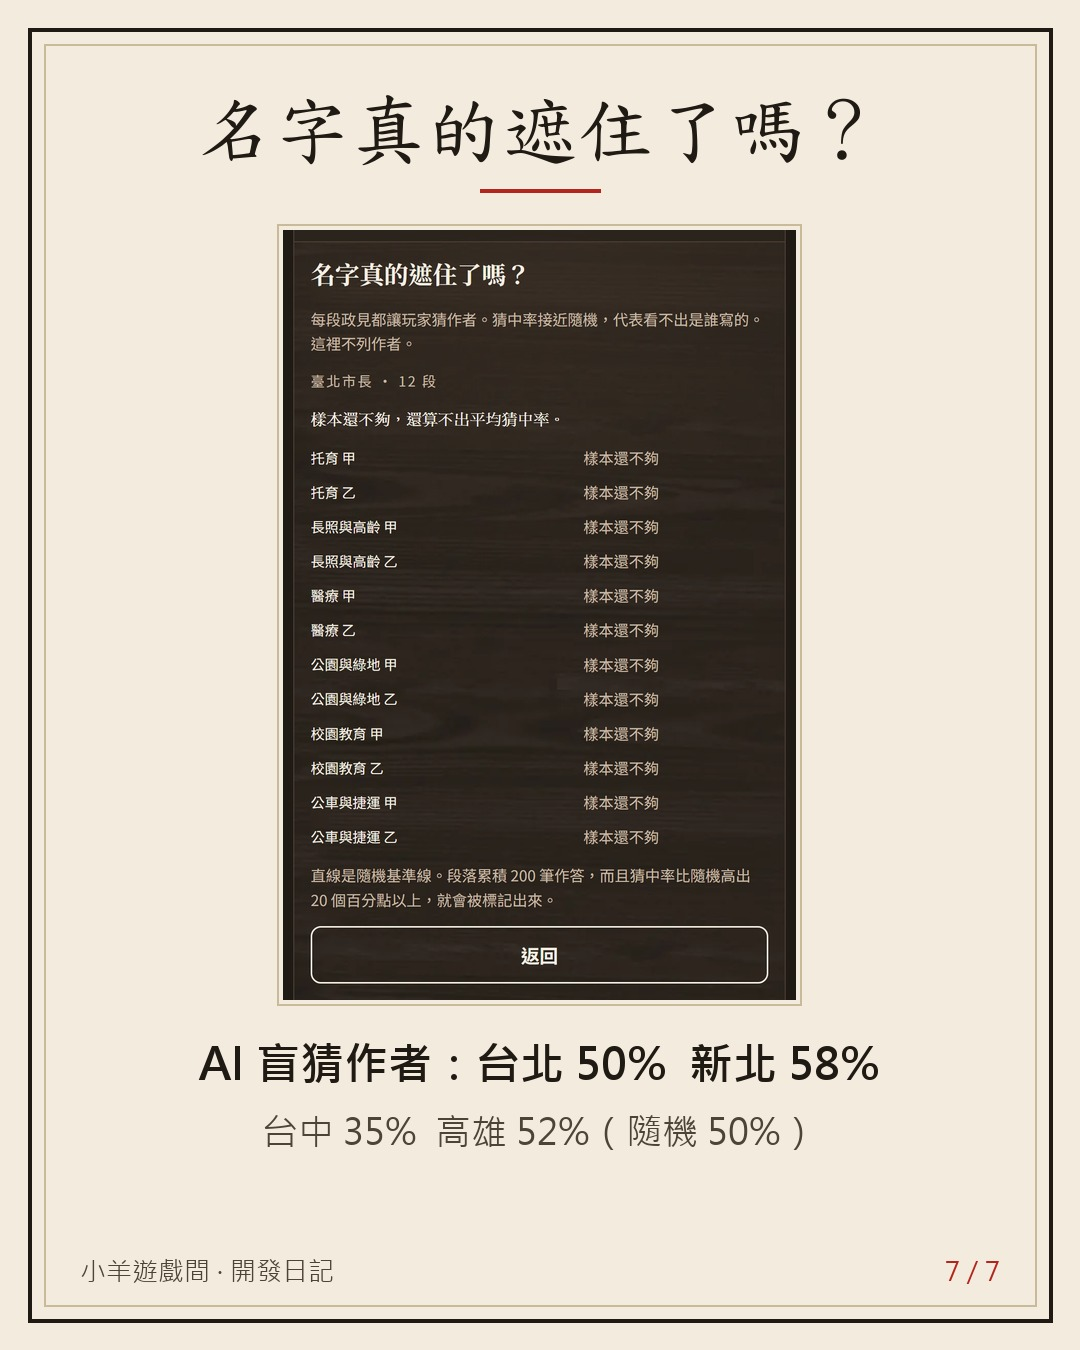
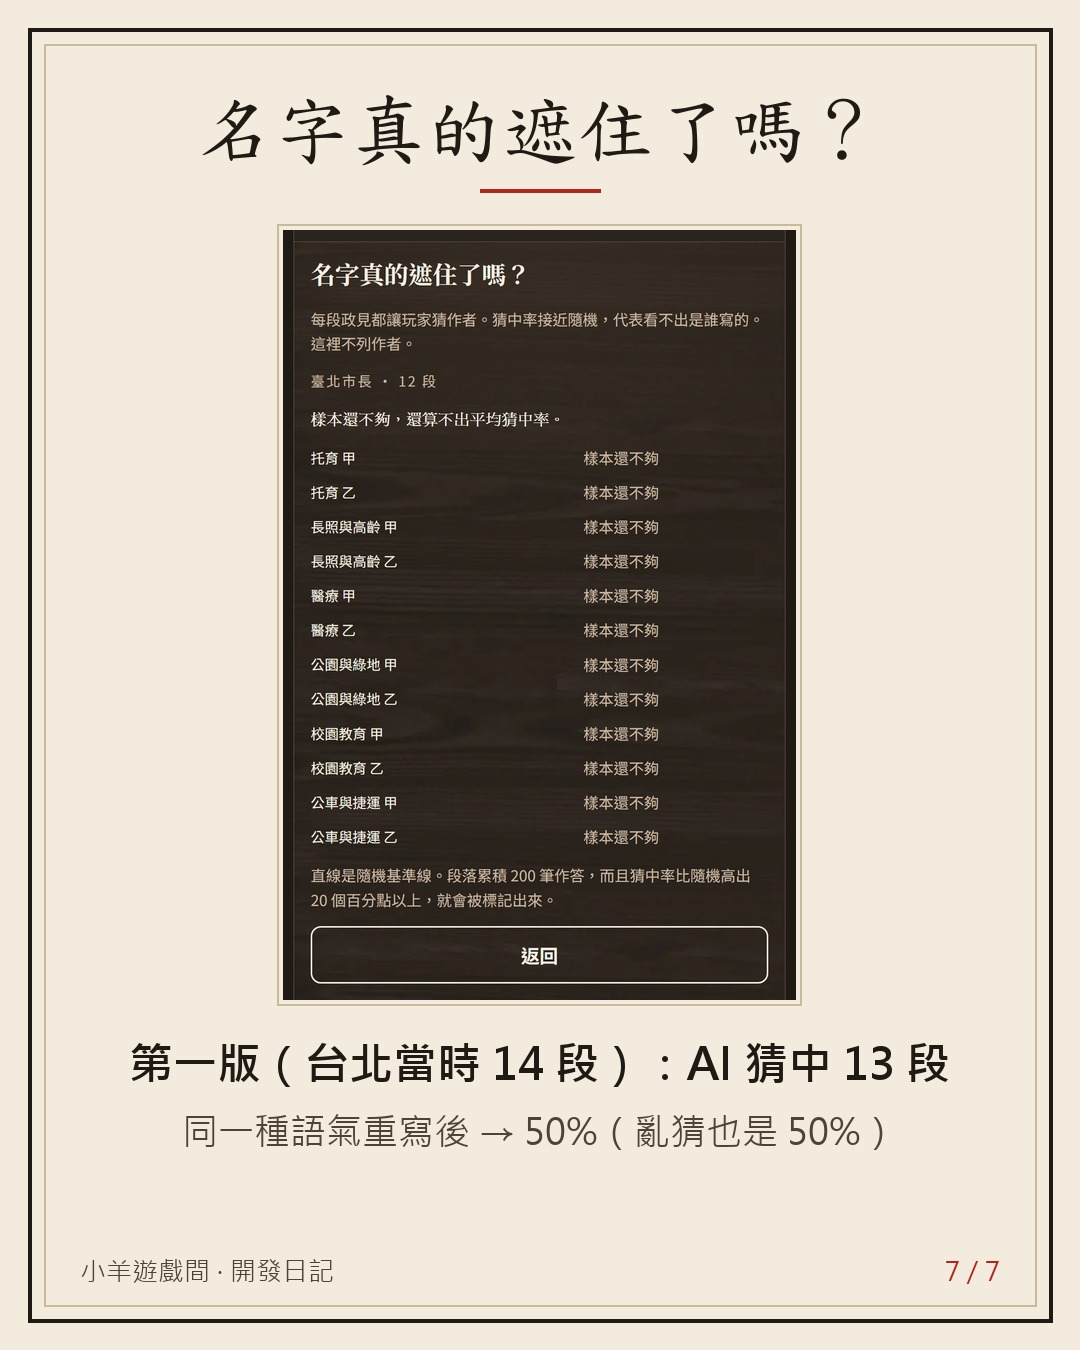
vault backup: 2026-10-25 06:40:04

Changed region(s): [[0.1222, 0.7467, 0.8861, 0.8711]]

diff --git a/Projects/auto promotion/posts/5.md b/Projects/auto promotion/posts/5.md
@@ -3,19 +3,19 @@ id: 5
 type: devnote
 game: covervote
 topic: "蓋牌投票箱：把候選人名字蓋起來之後的三個洩漏（段落編號單雙號交替、空 build 也綠的 guard、Cloudflare 自動注入分析腳本）＋ 60 段四人查核、AI 盲猜率"
-status: 草稿
+status: 待發
 created: 2026-10-25 21:50
-score:
+score: 8.1
 ---
 # 把候選人名字蓋起來之後，第一個洩漏答案的是題目編號
 
 ## Threads
 ### 1
-名字蓋起來了，答案還是漏了——漏在題目編號 orz
+名字全蓋住了，看題目編號就知道是誰寫的。
 
 我做了一個把市長候選人名字蓋起來的小遊戲。
 結果單號是甲寫的，雙號是乙寫的。
-打開網頁原始碼就看得出來。
+送到瀏覽器的資料裡就看得出來——還好是上線前抓到的。
 
 這篇記一下，做「看不出是誰」，洞都藏在哪裡。
 ![[5/01.jpg]]
@@ -23,9 +23,9 @@ score:
 遊戲很簡單：
 名字蓋住，每段政見你打 -2 到 +2 分，想猜就猜是誰寫的。
 開票時看：你傾向的人，和政見最契合的人，是不是同一個。
-（你的傾向只存在自己手機，不上傳）
+（你的傾向只存在自己的瀏覽器，不上傳）
 
-台北、新北、台中、高雄可以玩，共 60 段；桃園、台南等 11/12 公報。
+台北、新北、台中、高雄可以玩，共 60 段；桃園、台南等 11/12 選舉公報出來再補。
 ![[5/02.jpg]]
 ### 3
 回到編號。
@@ -34,7 +34,7 @@ score:
 資料照「甲一段、乙一段」整理，id 又是流水號，
 就變成單號甲、雙號乙。
 
-是負責整理高雄資料的那個 AI 自己回報的。
+上線前，負責整理高雄資料的那個 AI 自己回報的。
 改成亂數碼、順序打亂，
 再加一道自動檢查：id 長得像流水號，測試就亮紅燈。
 ![[5/03.jpg]]
@@ -42,9 +42,9 @@ score:
 第二個洞在檢查本身。
 
 我寫了一條測試：「送到前端的資料裡，找不到候選人名字」。
-它綠了。很開心。
+第一版寫好，它綠了，差點就這樣收工。
 
-後來發現，build 壞掉、一個檔都沒產生的時候，它也是綠的。
+回頭再看才發現，build 壞掉、一個檔都沒產生的時候，它也是綠的。
 0 個檔案裡，當然找不到名字 XD
 
 補一句「至少要有東西可查」，
@@ -53,9 +53,11 @@ score:
 ### 5
 第三個洞是我自己挖的，只是我不知道 orz
 
-我的程式沒放任何分析腳本，
-但我的 Cloudflare 帳號開了流量分析，它會自動在線上網頁塞一支腳本。
-做政治題目，我不想多收玩家任何東西。
+我自己只放了 GA，而且只記流程：開頁、選縣市、開始、開票、分享。
+傾向、分數、猜誰，都不送給 GA；隱私頁也能按「不要統計我」關掉 GA。
+遊戲自己的後端只收匿名總數（每段被猜幾次、猜中幾次），給健康度頁用。
+但 Cloudflare 帳號開了流量分析，會再自動塞一支我沒寫的腳本。
+做政治題目，沒說好的東西，我一樣都不想多收。
 
 加一行設定（no-transform，意思是「請不要改我的網頁」）擋掉，
 前後實測：網頁裡的那支腳本 1 → 0。
@@ -63,73 +65,75 @@ score:
 ### 6
 最大的洞，在文字本身。
 
-第一版改寫，請 AI 讀者盲猜：台北 14 段猜中 13 段。
+第一版改寫，請 AI 讀者盲猜：台北當時 14 段，猜中 13 段。
 名字蓋了，語氣沒蓋——一邊像市府新聞稿，一邊像挑戰者的提案。
 整批退回，規定兩邊用同一種語氣重寫。
 
-重寫後再盲猜：台北 50%，兩人對決亂猜也是 50%。
-另外請四位獨立查核員對過原文，改寫有 2 段意思跑掉、15 段小偏差，全修。
+重寫後再盲猜：台北 50%。目前每都先收兩位候選人，亂猜也是 50%。
+另外分四路獨立查核原文，改寫有 2 段意思跑掉、15 段小偏差，全修。
 ![[5/07.jpg]]
 ### 7
 小小的心得：
-我原本只擔心名字。
-結果編號、測試、平台設定、語氣，每一個都會說出「是誰」。
+我原本只擔心名字，結果編號、測試、平台設定、語氣，每一個都會說出「是誰」。
+要測「看不出是誰」，不要只檢查名字——
+找一個沒看過答案的人（或 AI）盲猜，猜中率接近亂猜才算數。
 
-你覺得名字蓋起來之後，還有什麼會讓你一眼認出是誰寫的？
-你也來猜猜看，猜得比 AI 準嗎？
+你覺得名字蓋起來之後，什麼最容易讓你認出是誰？語氣、數字，還是某個口頭禪？
 
 下一篇：11/18 起，遊戲會自己把候選人相關的統計收起來。為什麼要這樣做？
 有錯請指正 :p
 ### 連結
-名字蓋起來，你會投給誰？👉 https://games.csiesheep.com/covervote/
+名字蓋起來，你猜得比 AI 準嗎？👉 https://games.csiesheep.com/covervote/
 
 ## Instagram
-名字蓋起來了，答案還是漏了——漏在題目編號 orz
+名字全蓋住了，看題目編號就知道是誰寫的。
 
 我做了一個把市長候選人名字蓋起來的小遊戲。
-結果單號是甲寫的、雙號是乙寫的。
+結果單號是甲寫的、雙號是乙寫的（還好上線前抓到）。
 
 做「看不出是誰」，洞藏在四個地方：
 1. 題目編號
 2. 檢查程式自己（0 個檔案也綠燈）
 3. 我自己帳號自動塞進網頁的分析腳本
-4. 語氣：第一版改寫，AI 讀者在台北 14 段猜中 13 段
+4. 語氣：第一版改寫，AI 讀者在台北當時 14 段猜中 13 段
 
-全部修完，台北盲猜降到 50%（亂猜也是 50%）。
+全部修完，台北盲猜降到 50%（目前每都兩位候選人，亂猜也是 50%）。
 
-你覺得名字蓋起來後，還有什麼會洩漏是誰寫的？留言跟我說～
+你覺得名字蓋起來後，什麼最容易讓你認出是誰？語氣、數字，還是口頭禪？留言跟我說～
 連結在主頁
 
 #蓋牌投票箱 #開發日記 #獨立遊戲 #網頁遊戲 #小羊遊戲間
 卡片：![[5/01.jpg]] ![[5/02.jpg]] ![[5/03.jpg]] ![[5/04.jpg]] ![[5/05.jpg]] ![[5/06.jpg]] ![[5/07.jpg]]
 
 ## Facebook
-【開發日記】名字蓋起來了，答案還是漏了——漏在題目編號
+【開發日記】名字蓋起來了，答案還是漏了——漏在題目編號（還好上線前抓到）
 
-我做了一個小遊戲「蓋牌投票箱」：市長候選人的政見把名字蓋住，你給每段打 -2 到 +2 分，也可以猜是誰寫的；開票時看看「你傾向的人」和「你最契合的人」是不是同一個。你的傾向只存在自己的手機，不上傳。
+我做了一個小遊戲「蓋牌投票箱」：市長候選人的政見把名字蓋住，你給每段打 -2 到 +2 分，也可以猜是誰寫的；開票時看看「你傾向的人」和「你最契合的人」是不是同一個。你的傾向只存在自己的瀏覽器，不上傳。
 
 現在台北、新北、台中、高雄可以玩，一共 60 段；桃園、台南等 11/12 選舉公報出來再補。
 
 這種遊戲最重要的只有一件事：真的看不出是誰。結果洞都不在我想的地方。
 
 🔢 洩漏一：題目編號
-每段政見在程式裡有個 id，會送到玩家的瀏覽器。資料照「甲一段、乙一段」整理、id 又是流水號，就變成單號甲、雙號乙。這是整理高雄資料的 AI 自己回報的。改成亂數碼、打亂順序，再加一道檢查：id 像流水號就亮紅燈。
+每段政見在程式裡有個 id，會送到玩家的瀏覽器。資料照「甲一段、乙一段」整理、id 又是流水號，就變成單號甲、雙號乙。上線前，整理高雄資料的 AI 自己回報了。改成亂數碼、打亂順序，再加一道檢查：id 像流水號就亮紅燈。
 
 ✅ 洩漏二：檢查自己
-我寫了「送到前端的資料裡找不到候選人名字」的測試，綠了。後來發現 build 壞掉、一個檔都沒有時它也綠——0 個檔案裡當然找不到名字 XD 補上「至少要有東西可查」，再故意用四種方式把程式弄壞（連吐出空資料都試了），看它每次都紅才放心。
+我寫了「送到前端的資料裡找不到候選人名字」的測試，第一版就綠了，差點收工。回頭再看才發現 build 壞掉、一個檔都沒有時它也綠——0 個檔案裡當然找不到名字 XD 補上「至少要有東西可查」，再故意用四種方式把程式弄壞（連吐出空資料都試了），看它每次都紅才放心。
 
 🧩 洩漏三：我自己挖的，只是我不知道 orz
-我的程式沒有分析腳本，但我的 Cloudflare 帳號開了流量分析，會自動在線上網頁塞一支。做政治題目，我不想多收玩家任何東西。加一行設定（no-transform，「請不要改我的網頁」）擋掉，實測 1 → 0。
+我自己只放了 GA，只記流程（開頁、選縣市、開始、開票、分享），傾向、分數、猜誰都不送給 GA，隱私頁也能按「不要統計我」關掉 GA；遊戲自己的後端只收匿名總數（每段被猜幾次、猜中幾次），給健康度頁用。但 Cloudflare 帳號開了流量分析，會再自動塞一支我沒寫的腳本。做政治題目，沒說好的東西我一樣都不想多收。加一行設定（no-transform，「請不要改我的網頁」）擋掉，實測 1 → 0。
 
 🗣 洩漏四：語氣
-第一版改寫，請 AI 讀者盲猜作者，台北 14 段猜中 13 段。名字蓋了，語氣沒蓋：一邊像市府新聞稿，一邊像挑戰者的提案。整批退回，規定兩邊用同一種語氣重寫。重寫後 AI 盲猜：台北 50%、新北 58%、台中 35%（白話版）、高雄 52%，兩人對決亂猜是 50%。另外請四位獨立查核員對過原文：原文、作者 60/60 都對，改寫有 2 段意思跑掉、15 段小偏差，全修再重查。真人的猜中率會公開在「遮蔽健康度」頁，現在樣本還不夠。
+第一版改寫，請 AI 讀者盲猜作者：台北當時 14 段，猜中 13 段。名字蓋了，語氣沒蓋：一邊像市府新聞稿，一邊像挑戰者的提案。整批退回，規定兩邊用同一種語氣重寫。重寫後再盲猜，台北 50%——目前每都先收兩位候選人（其他候選人等公報再補），亂猜也是 50%。
 
-小小心得：我原本只擔心名字。結果編號、測試、平台設定、語氣，每一個都會說出「是誰」。
+另外分四路獨立查核原文：原文、作者 60/60 都對，改寫有 2 段意思跑掉、15 段小偏差，全修再重查。真人的猜中率會公開在「遮蔽健康度」頁，現在樣本還不夠。
 
-你覺得名字蓋起來之後，還有什麼線索會讓你認出是誰寫的？也來猜猜看，猜得比 AI 準嗎？
+小小心得：我原本只擔心名字，結果編號、測試、平台設定、語氣，每一個都會說出「是誰」。要測「看不出是誰」，不要只檢查名字：找一個沒看過答案的人（或 AI）盲猜，猜中率接近亂猜才算數。
+
+你覺得名字蓋起來之後，什麼最容易讓你認出是誰？語氣、數字，還是某個口頭禪？
 下一篇：11/18 起，遊戲會自己把候選人相關的統計收起來。為什麼要這樣做？有錯請指正 :p
 
-👉 名字蓋起來，你會投給誰？ https://games.csiesheep.com/covervote/
+👉 名字蓋起來，你猜得比 AI 準嗎？ https://games.csiesheep.com/covervote/
 
 相簿：同 Instagram 卡片
 
@@ -139,14 +143,18 @@ score:
 - ~/code/covervote 提交 25d1b89（#14）與 plan「W4 隱私…Cloudflare 帳號層級的 Web Analytics 自動注入 beacon.min.js」「#14 擋掉 Cloudflare 自動注入的分析腳本（A/B：1 → 0）」— 洩漏三
 - plan「事實查核（四位獨立查核員）：原文 60/60、作者 60/60；改寫 2 段錯＋15 段小偏差 → #23 全修正並重查」
 - plan W1 預演「台北 masked 13/14、plain 9/14（語氣洩漏：現任市府新聞稿 vs 挑戰者框架式提案）…#2 因此退回改寫；四都 brief 加入『同一語氣』規則」— 洩漏四
-- plan 判準表 W1「盲猜（AI 讀者）台北 50%、新北 58%、台中 35%、高雄 52%（隨機 50%）」
+- plan 判準表 W1「盲猜（AI 讀者）台北 50%…（隨機 50%）」；#2「改寫後盲猜台北 50%」
+- ~/code/covervote/site/analytics.js（#21）— GA4 只送 page_view/select_city/game_start/reveal/share，不送傾向、分數、猜測；internal、嵌入、班級、「不要統計我」不載入
 - ~/code/covervote/data/passages.json — 60 段（台中 20、高雄 16、新北 12、台北 12）
 - 線上頁 https://games.csiesheep.com/covervote/?internal=1#/taipei/health 截圖（2026-10-25）—「樣本還不夠」；首頁「桃園、台南 整理中＝11/12 公報後」
+- ~/code/covervote/site/api.js — 猜測與結果型匿名送後端、只存匯總計數
 - ~/code/covervote/TEAM.md — 傾向只存瀏覽器、11/18 起停止顯示候選人相關匯總統計（下一篇）
 
 ## 打磨紀錄
 | 回合 | 1 | 2 | 3 | 4 | 5 | 6 | 7 | 8 | 9 | 10 | 平均 | 主要修改 |
 |---|---|---|---|---|---|---|---|---|---|---|---|---|
 | 1 | 8 | 9 | 7 | 8 | 8 | 7 | 7 | 8 | 8 | 9 | 7.9 | 鉤子第一行放反差；補台北 14 段猜中 13 段的語氣故事；修正「塞回答案四次」與「平台塞腳本」的事實；具體的下一篇預告；no-transform 白話；遊戲截圖換成高雄校園教育 |
+| 2 | 9 | 9 | 8 | 8 | 9 | 6 | 8 | 8 | 8 | 7 | 8.0 | 改正：遊戲有 GA（只記流程、不送傾向）而非「沒有分析腳本」；寫明編號洩漏是上線前抓到；台北「當時 14 段」；拿掉其他三都盲猜數字；結尾只留一個問題、心得寫成方法；連結句改「猜得比 AI 準嗎」 |
+| 3 | 8 | 9 | 8 | 9 | 8 | 7 | 8 | 8 | 8 | 8 | 8.1 | 過門檻；再修事實：GA 之外後端收匿名總數、「不要統計我」只關 GA、傾向存瀏覽器、guard 是寫的當下抓到、每都先收兩位候選人、查核不寫是人或 AI、卡 7 註明「當時」14 段、鉤子去掉 orz |
 
 ## 發文紀錄

diff --git a/Projects/auto promotion/2026-10-25.md b/Projects/auto promotion/2026-10-25.md
@@ -80,3 +80,6 @@
 | 21:31 | promo-post-devnote-2120 | 發文 | #4 Threads 8 則（6 圖，主題 網頁遊戲） | https://www.threads.com/@csiesheep.games/post/De60XyUG_g4 |
 | 21:31 | promo-producer | 進度 | 第 5 篇草稿與 7 張卡完成（posts/5），送 judge 打磨 |  |
 | 21:33 | promo-post-devnote-2120 | 發文 | #4 Instagram 7 張卡片（原始比例） | https://www.instagram.com/p/De60wy8G6Qa/ |
+| 21:38 | promo-producer | 完成 | 開發日記 #5〈名字全蓋住了，看題目編號就知道是誰寫的〉（蓋牌投票箱）待發，posts/5（7 張卡），judge 三輪 7.9→8.0→8.1；存貨：卡 4、生在中國 Reel 1、鬼唱詩 0、貼文 熱門 1／開發日記 1 |  |
+| 21:39 | promo-post-devnote-2120 | 發文 | #4 Facebook 小羊遊戲間 文字＋7 張相片（已發，連結見粉專貼文列表） |  |
+| 21:39 | promo-post-devnote-2120 | 完成 | #4 開發日記（英文版五輪審稿）三個平台都發了；Threads 回到 gui.chang.shi、IG 回到 csiesheep.games、FB 回到個人檔案；21:39 |  |

diff --git a/Projects/auto promotion/posts/4.md b/Projects/auto promotion/posts/4.md
@@ -3,7 +3,7 @@ id: 4
 type: devnote
 game: china_life
 topic: "生在中國：英文版五輪審稿（固定 20 個種子，必修 38→17→10→3→0；26 條是中文版本來就有的錯；城市政權表、v14–v16 保住舊分享連結）"
-status: 發文中 2026-10-25 21:25
+status: 已發
 created: 2026-10-25 17:50
 score: 8.4
 ---
@@ -154,3 +154,6 @@ score: 8.4
 ## 發文紀錄
 
 （2026-10-25：小羊把門檻改成「平均 8.0、每項至少 7」，第 4 回合符合，改為待發。）
+- Threads（csiesheep.games，2026-10-25 21:30，8 則、6 圖、主題 網頁遊戲）：https://www.threads.com/@csiesheep.games/post/De60XyUG_g4
+- Instagram（csiesheep.games，2026-10-25 21:33，7 張卡片、原始比例）：https://www.instagram.com/p/De60wy8G6Qa/
+- Facebook（小羊遊戲間粉專，2026-10-25 21:36，文字＋7 張相片，所有人，AI 標籤關）：已發（永久連結藏在追蹤參數後，請到粉專貼文列表看）
